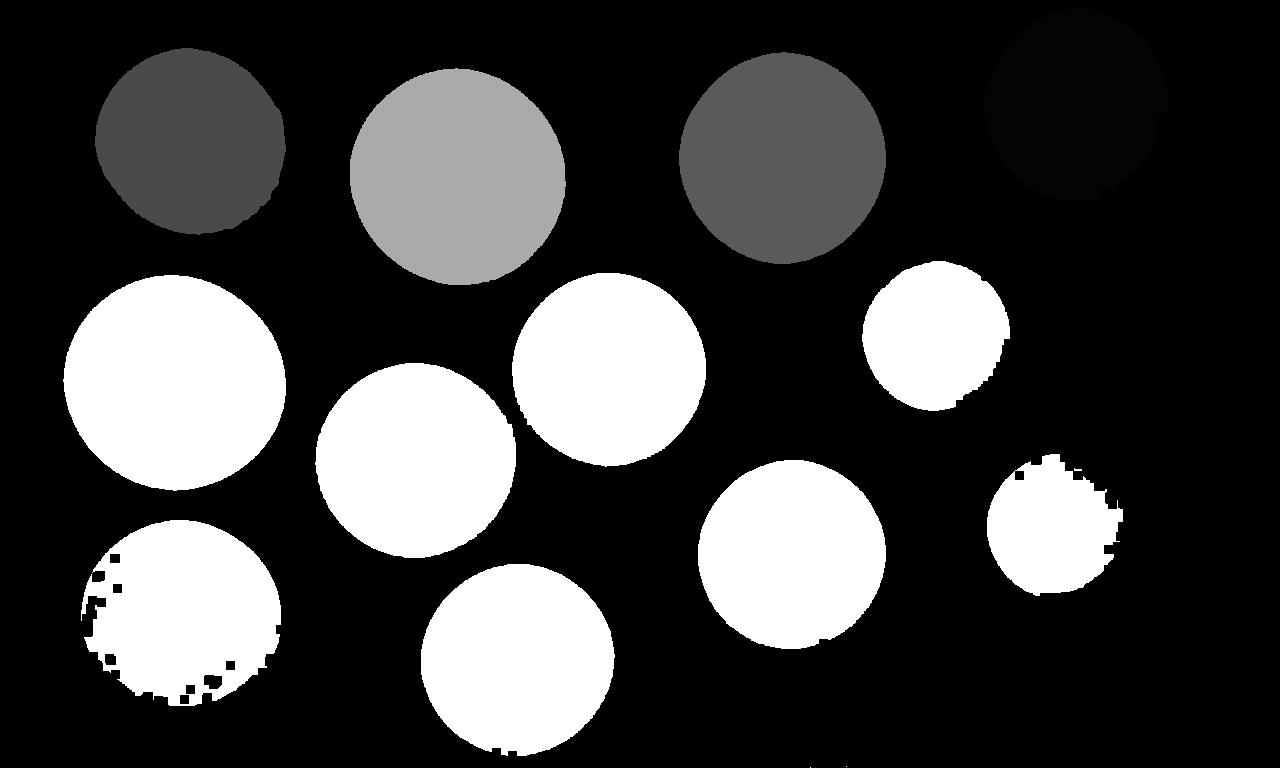
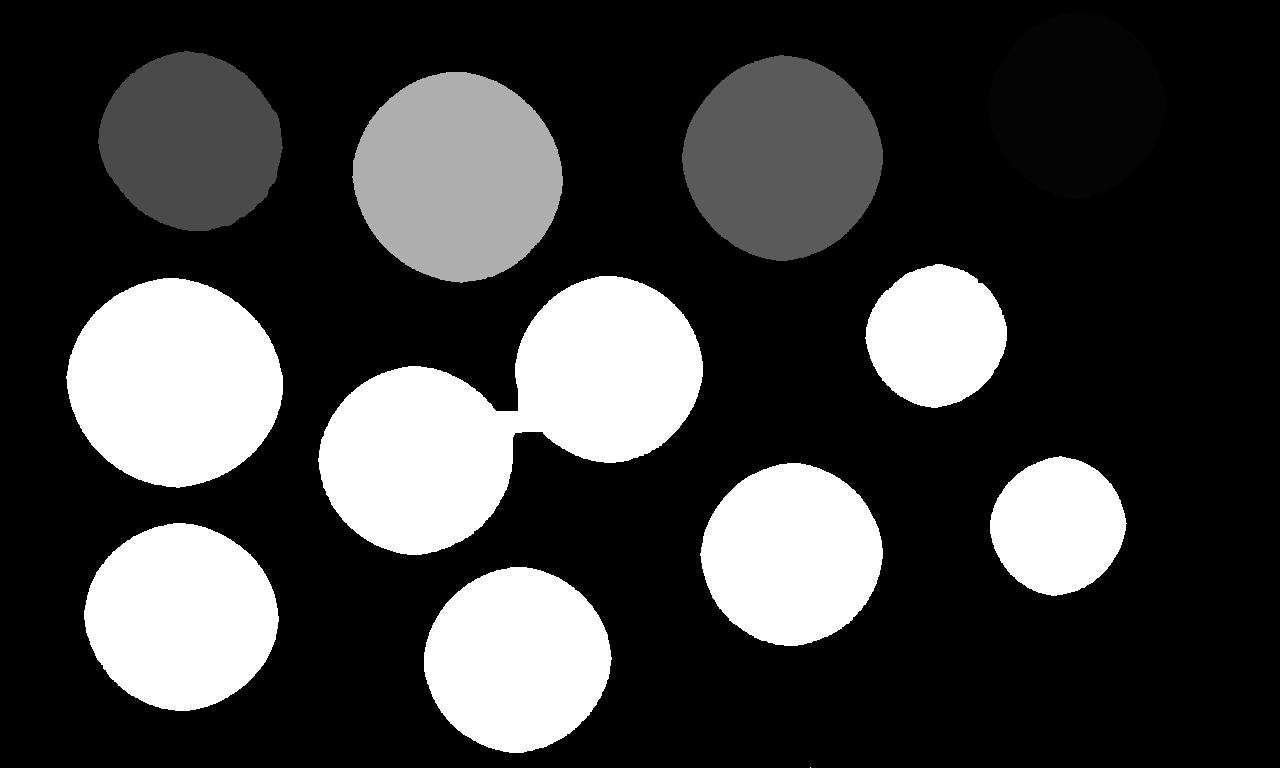
Versão 3

diff --git a/moedasResolucaoV3.m b/moedasResolucaoV3.m
@@ -1,0 +1,247 @@
+pkg load image
+
+clear all
+close all
+
+im = imread('/home/gustavo/Documentos/TADS/PDI/trabalhoMoedas/imagens/11.jpg');
+%figure('Name','Imagem original: Moedas')
+%imshow(im)
+
+%figure('Name','Histograma Moedas');
+%imhist(im)
+
+f = rgb2gray(im);
+
+%figure('Name','Imagem Moedas - Escala de cinzas');
+%imshow(f);
+
+%figure('Name','Histograma Moedas - Escala de Cinzas');
+%imhist(f)
+
+%%%%%%%%%%%%%%%%%%%%%%%%%%%%%%%%%%%%%%%%%%%%%%%%%%%%%%%%%%%%%%%   
+%%%%%%%%%%%%%%%%% MOEDAS CINZAS REDUZIDAS %%%%%%%%%%%%%%%%%%%%%
+
+x=1;
+for i=1:2:size(f,1)
+    y=1;
+    for j=1:2:size(f,2)
+        fReduzida(x,y) = f(i,j);
+        y=y+1;
+    end
+    x=x+1;
+end
+%figure('Name','Moedas Cinzas Reduzidas');
+%imshow(fReduzida)
+
+f = fReduzida;
+
+%%%%%%%%%%%%%%%%%%%%%%%%%%%%%%%%%%%%%%%%%%%%%%%%%%%%%%%%%%%%%%%   
+%%%%%%%%%%%%% MOEDAS CINZAS - LIMIARIZAÇÃO %%%%%%%%%%%%%%%%%%%%
+
+%imFLimiar = zeros(size(f,1), size(f,2));
+%imFLimiar(f>65) = 1;
+
+%figure('Name','Moedas Limiarizadas');
+%imshow(imFLimiar);
+
+%%%%%%%%%%%%%%%%%%%%%%%%%%%%%%%%%%%%%%%%%%%%%%%%%%%%%%%%%%%%%%%   
+%%%%%%%%%%%%%%% MOEDAS - FILTRO PASSA BAIXA %%%%%%%%%%%%%%%%%%%
+
+%preenchimento com zeros
+%f2 = zeros(size(f,1)+6,size(f,2)+6);
+%f2(4:size(f2,1)-3, 4:size(f2,2)-3) = f(:,:);
+
+%figure('Name','Moedas - Passa Baixa');
+%imshow(f2, [min(min(f2)) max(max(f2))]);
+
+%g = zeros(size(f2,1),size(f2,2));
+
+%pesos w
+% filtro passa-baixa: máscara 1/25
+%w = [1 1 1 1 1; 1 1 1 1 1; 1 1 1 1 1; 1 1 1 1 1; 1 1 1 1 1];
+
+%for x=3:size(f2,1)-2
+%    for y=3:size(f2,2)-2
+%        g(x,y) = (w(1,1)*f2(x-2,y-2) + w(1,2)*f2(x-2,y-1) + w(1,3)*f2(x-2,y) + w(1,4)*f2(x-2,y+1) + w(1,5)*f2(x-2,y+2) + ...
+%                w(2,1)*f2(x-1,y-2) + w(2,2)*f2(x-1,y-1) + w(2,3)*f2(x-1,y) + w(2,4)*f2(x-1,y+1) + w(2,5)*f2(x-1,y+2) + ...
+%                w(3,1)*f2(x,y-2) + w(3,2)*f2(x,y-1) + w(3,3)*f2(x,y) + w(3,4)*f2(x,y+1) + w(3,5)*f2(x,y+2) + ...
+%                w(4,1)*f2(x+1,y-2) + w(4,2)*f2(x+1,y-1) + w(4,3)*f2(x+1,y) + w(4,4)*f2(x+1,y+1) + w(4,5)*f2(x+1,y+2) + ...
+%                w(5,1)*f2(x+2,y-2) + w(5,2)*f2(x+2,y-1) + w(5,3)*f2(x+2,y) + w(5,4)*f2(x+2,y+1) + w(5,5)*f2(x+2,y+2))/25;
+%    end
+%end
+
+%g2(:,:) = g(3:size(g,1)-6, 3:size(g,2)-6);
+
+%figure('Name','Moedas - Filtrada');
+%imshow(g, [min(min(g)) max(max(g))])
+
+%figure('Name','Moedas - Filtrada Final ');
+%imshow(g2, [min(min(g2)) max(max(g2))])
+
+%%%%%%%%%%%%%%%%%%%%%%%%%%%%%%%%%%%%%%%%%%%%%%%%%%%%%%%%%%%%%%%   
+%%%%%%%%%%%%%%%%%%%% MOEDAS - LIMIARIZAÇÃO %%%%%%%%%%%%%%%%%%%%
+
+imLimiar = zeros(size(f,1), size(f,2));
+imLimiar(f>65) = 1;
+
+figure('Name','Moedas Limiarizadas');
+imshow(imLimiar);
+
+imwrite(imLimiar,'/home/gustavo/projetosGit/PDI/imLimiar.jpg');
+
+%%%%%%%%%%%%%%%%%%%%%%%%%%%%%%%%%%%%%%%%%%%%%%%%%%%%%%%%%%%%%%%   
+%%%%%%%%%%%%%%%%% MOEDAS - DILATAÇÃO %%%%%%%%%%%%%%%%%%%%%%%%%%%%%  
+A = imLimiar;
+
+B = [0 0 0; 
+     0 0 0; 
+     0 0 0];
+
+C = A;
+
+for k = 1:3
+  for i=2:size(A,1)-1
+    for j=2:size(A,2)-1
+      if(A(i,j)==0) %se o pixel central da vizinhança de A = 1, deve ser analizado
+%         vizA = [A(i-2,j-2) A(i-2,j-1) A(i-2,j) A(i-2,j+1) A(i-2,j+2);...
+%               A(i-1,j-2) A(i-1,j-1) A(i-1,j) A(i-1,j+1) A(i-1,j+2);...
+%               A(i,j-2) A(i,j-1) A(i,j) A(i,j+1) A(i,j+2);...
+%               A(i+1,j-2) A(i+1,j-1) A(i+1,j) A(i+1,j+1) A(i+1,j+2);...
+%               A(i+2,j-2) A(i+2,j-1) A(i+2,j) A(i+2,j+1) A(i+2,j+2)];
+      vizA = [A(i-1,j-1) A(i-1,j) A(i-1,j+1);...
+            A(i,j-1) A(i,j) A(i,j+1);...
+            A(i+1,j-1) A(i+1,j) A(i+1,j+1)];
+        if (sum(sum(vizA==B))!=9) % se todos os pixels são iguais entre a vizinhança de A e B
+          C(i,j)=1;
+        end    
+      end
+    end
+  end
+  A = C;
+end
+figure('Name','Imagem Moedas Dilatadas')
+imshow(C)
+
+imwrite(C,'/home/gustavo/projetosGit/PDI/imMoedasDilatadas.jpg');
+
+%%%%%%%%%%%%%%%%%%%%%%%%%%%%%%%%%%%%%%%%%%%%%%%%%%%%%%%%%%%%%%%   
+%%%%%%%%%%%%%%%%% MOEDAS - EROSÃO %%%%%%%%%%%%%%%%%%%%%%%%%%%%%  
+
+B = [1 1 1; 
+     1 1 1; 
+     1 1 1];
+
+for k = 1:10
+  for i=2:size(A,1)-1
+    for j=2:size(A,2)-1
+      if(A(i,j)==1) %se o pixel central da vizinhança de A = 1, deve ser analizado
+ %        vizA = [A(i-2,j-2) A(i-2,j-1) A(i-2,j) A(i-2,j+1) A(i-2,j+2);...
+ %              A(i-1,j-2) A(i-1,j-1) A(i-1,j) A(i-1,j+1) A(i-1,j+2);...
+ %              A(i,j-2) A(i,j-1) A(i,j) A(i,j+1) A(i,j+2);...
+ %              A(i+1,j-2) A(i+1,j-1) A(i+1,j) A(i+1,j+1) A(i+1,j+2);...
+ %              A(i+2,j-2) A(i+2,j-1) A(i+2,j) A(i+2,j+1) A(i+2,j+2)];
+      vizA = [A(i-1,j-1) A(i-1,j) A(i-1,j+1);...
+            A(i,j-1) A(i,j) A(i,j+1);...
+            A(i+1,j-1) A(i+1,j) A(i+1,j+1)];
+        if (sum(sum(vizA==B))!=9) % se todos os pixels são iguais entre a vizinhança de A e B
+          C(i,j)=0;
+        end    
+      end
+    end
+  end
+  A = C;
+end
+figure('Name','Imagem Moedas Erodidas')
+imshow(C)
+
+imwrite(C,'/home/gustavo/projetosGit/PDI/imMoedasErodidas.jpg');
+
+%%%%%%%%%%%%%%%%%%%%%%%%%%%%%%%%%%%%%%%%%%%%%%%%%%%%%%%%%%%%%%%%%%   
+%%%%%%%%%%%%%%%%% MOEDAS - PORCENTAGEM %%%%%%%%%%%%%%%%%%%%%%%%%%%  
+
+perc = (sum(sum(C))*100)/(size(C,1)*size(C,2));
+figure('Name','Moedas - Porcentagem')
+imshow(C)
+
+title(strcat('Percentual de moedas: ',int2str(perc),' %'))
+
+%%%%%%%%%%%%%%%%%%%%%%%%%%%%%%%%%%%%%%%%%%%%%%%%%%%%%%%%%%%%%%%%%%   
+%%%%%%%%%%%%%%%%% MOEDAS - ROTULANDO %%%%%%%%%%%%%%%%%%%%%%%%%%%%%  
+imBW = C;
+
+rotulo = 2;
+rotulosIguais(1,1) = 0;
+%rotulosIguais(2,1) = 0;
+r = 1; %indice do vetor rotulos Iguais
+imRotulo = imBW; %imagem cópia para armazenar os rotulos
+for(i=2:size(imBW,1))
+  for(j=2:size(imBW,2))
+    if(imBW(i,j)==1)
+      if((imBW(i-1,j)==0)&&(imBW(i,j-1)==0))
+        rotulo+=2; % novo rotulo (soma de 10 em 10)
+        imRotulo(i,j)=rotulo;
+      else
+        if((imBW(i-1,j)==1)&&(imBW(i,j-1)==0))
+          imRotulo(i,j)=imRotulo(i-1,j);
+        else
+          if((imBW(i-1,j)==0)&&(imBW(i,j-1)==1))
+            imRotulo(i,j)=imRotulo(i,j-1);
+          else
+            if(((imBW(i-1,j)==1)&&(imBW(i,j-1)==1))&&(imRotulo(i-1,j)==imRotulo(i,j-1)))
+              imRotulo(i,j)=imRotulo(i-1,j);
+            else
+              if(((imBW(i-1,j)==1)&&(imBW(i,j-1)==1))&&(imRotulo(i-1,j)!=imRotulo(i,j-1)))
+                %os vizinhos são rotulados e os rotulos são diferentes...
+                imRotulo(i,j)=imRotulo(i-1,j); %insere o rotulo de um dos vizinhos
+                eq1 = imRotulo(i-1,j); 
+                eq2 = imRotulo(i,j-1);
+                % guardar rotulos equivalentes - erro
+                ultimaLinha = size(rotulosIguais,1);
+                ultimaColuna = size(rotulosIguais,2);
+                [l1,c1]=find(rotulosIguais==eq1); %busca o 1o elemento
+                [l2,c2]=find(rotulosIguais==eq2); %busca o 2o elemento
+                if ((isempty(l1))&&(isempty(l2))) %não achou nenhum dos elementos
+                  rotulosIguais(ultimaLinha+1,1) = eq1;
+                  rotulosIguais(ultimaLinha+1,2) = eq2;
+                else
+                  if ((!isempty(l1))&&(isempty(l2))) %não achou o 1o elemento
+                    rotulosIguais(l1,ultimaColuna+1) = eq2;
+                  else
+                    if ((isempty(l1))&&(!isempty(l2))) %não achou o 2o elemento
+                      rotulosIguais(l2,ultimaColuna+1) = eq1;
+                    end
+                  end
+                end
+              end  
+            end
+          end
+        end
+      end
+    end
+  end
+end
+
+figure('Name','Imagem Rotulada com erros')
+imshow(uint8(imRotulo), [min(min(imRotulo)), max(max(imRotulo))])
+
+imwrite(imRotulo,'/home/gustavo/projetosGit/PDI/imRotulo.jpg');
+
+%retirar erros de equivalências de rótulos
+for(i=2:size(imRotulo,1))
+  for(j=2:size(imRotulo,2))
+    if(imRotulo(i,j)!=0)
+      [l,c]=find(rotulosIguais==imRotulo(i,j)); %procura o elemento nos erros
+      if(!isempty(l))
+        imRotulo(i,j) = rotulosIguais(l,1);
+      end
+    end
+  end
+end
+
+qtdRegioes =  size(unique(imRotulo),1)-1; %-1 para desconsiderar o fundo
+imRotulo = uint8(imRotulo);
+figure('Name','Imagem Rotulada 2')
+imshow(imRotulo, [min(min(imRotulo)) max(max(imRotulo))])
+title(strcat('Quantidade de Moedas: ',int2str(qtdRegioes)))
+
+imwrite(imRotulo,'/home/gustavo/projetosGit/PDI/imRotuloFinal.jpg');
